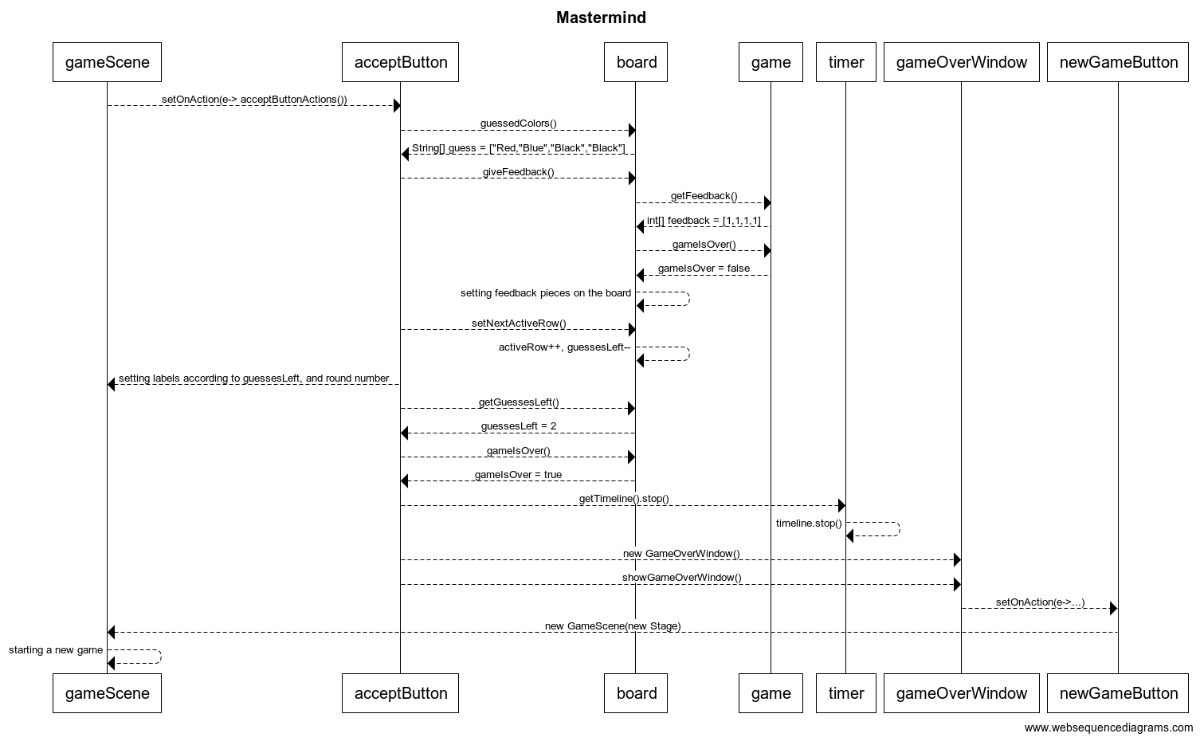
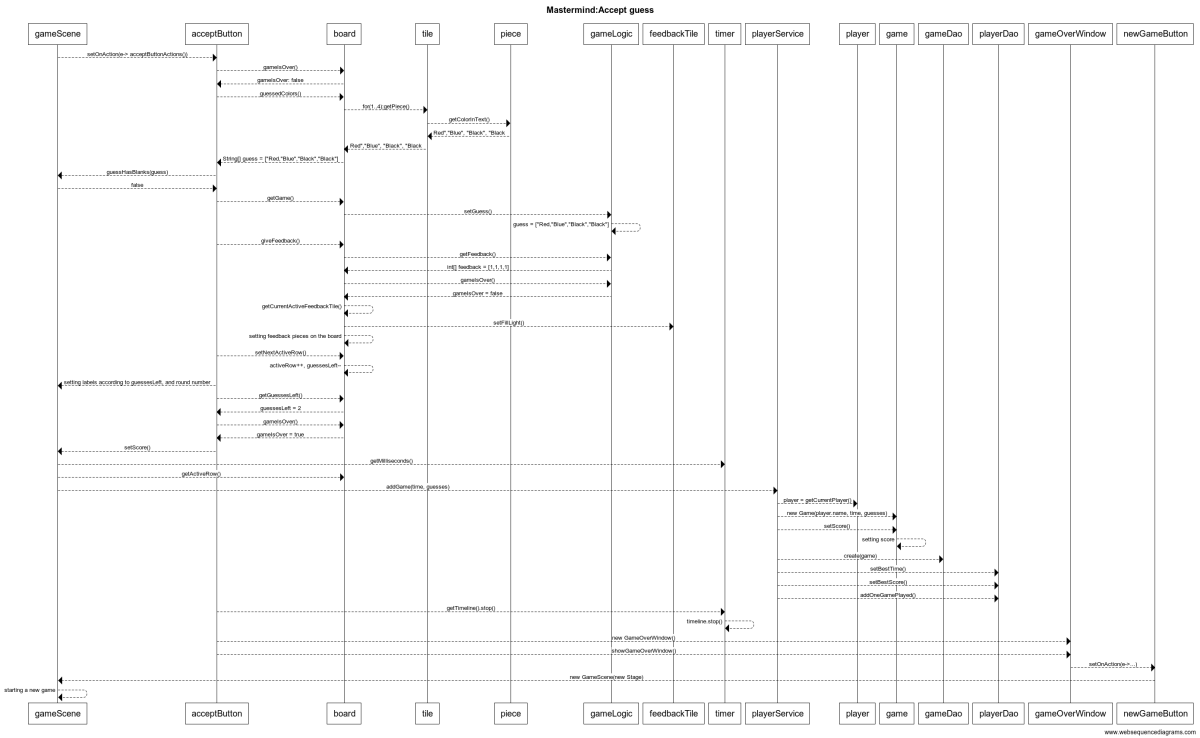
documents

diff --git a/Documents/Architecture.md b/Documents/Architecture.md
@@ -1,0 +1,68 @@
+# Project architecture
+
+## Structure
+The program is build in four layers and packages implement those layers:
+
+mastermind.gui -> mastermind.gamelogic -> mastermind.domain -> mastermind.dao
+
+The gui package includes the graphic user interface which is programmed using JavaFx. Mastermind.gamelogic acts as a bridge between the user interface and the program logic (domain and dao). Domain-package has all the basic program logic and dao-package is responsible for saving data to databases and to local disk.
+
+## The User Interface
+### Views
+* New Game Window
+	* Creating a new player / log in
+* Game Scene
+	* Main game window
+* Score Board
+	* Shows the game statistics and scores
+* Options
+	* The player can choose how many guesses are allowed
+* Game Over Window
+	* Shows the final time
+	* New Game, Close and Quit buttons
+* Help
+	* Game Instructions
+
+The score board, options and game instructions are scenes that can be added to the primary stage. The new game and game over windows have their own stage. 
+
+The user interface is interacting with the GameLogic-class which is then sending tasks to other classes in the domain package. Besides that the gui is also interacting with UserService class for database functions and options class for setting new options. 
+
+### The Program Logic
+
+![class diagram](https://github.com/TuuliTG/Ohte/blob/main/Documents/MastermindLuokkakaavio.jpg)
+
+### Saving data to database and local disk
+
+### Files
+The program saves player and game data to separate files on the local disk. The file names are spesified in a config.properties file which is located in Mastermind/src/main/resources. Currently the file names are set to players.txt and games.txt.
+
+Player data is saved in this format:
+`name;best time;best score;amount of games won;`
+
+Game data is saved in this format:
+`player name;score;time;number of guesses`
+
+## The main functions in the program
+
+### Creating a new player / log in
+
+![Creating a new player](https://github.com/TuuliTG/Ohte/blob/main/Documents/misc/newGameWindow.png)
+![Error](https://github.com/TuuliTG/Ohte/blob/main/Documents/misc/newGameError.png)
+
+### Playing
+
+![Game Window](https://github.com/TuuliTG/Ohte/blob/main/Documents/misc/gameWindow.png)
+![Arvauksen hyväksyminen](https://github.com/TuuliTG/Ohte/blob/main/Documents/MastermindSekvenssikaavio.png)
+
+The player can click on the code tiles to change to color (left or right click depending on the direction the player wants).
+When the player is satisfied with the guess, he/she can press the accept button to get feedback. If there were blanks left in the guess, and error message will show up and no feedback will be given. 
+
+### Game Over
+
+The game ends either when the player runs out of guesses or if he/she solves the code. 
+![Game Over Window](https://github.com/TuuliTG/Ohte/blob/main/Documents/misc/gameOverWindow.png)
+
+## Weaknesses in the program 
+
+**Options** 
+It would be nice that the player could have more options to customize the game. For example allowing blanks or setting a time limit for each guess. 

diff --git a/Documents/Testing.md b/Documents/Testing.md
@@ -1,0 +1,11 @@
+# Testing
+
+Project has unit and integration tests. The graphic user interface was not included in the tests. Test cover the dao (database-related classes) and domain packages.
+
+## Unit and integration testing
+### Domain
+**PlayerServiceTest** provides integration tests for the PlayerService class and other domain classes. FakeGameDao and FakePlayerDao classes implement the DAO interfaces and provide the tools for saving data during tests. 
+
+**CodeTest** tests if the color code is set up properly and doesn't have greys or other wrong colors. 
+
+**Option

diff --git a/Documents/workhours.md b/Documents/workhours.md
@@ -55,4 +55,6 @@ su 6.12.
 5 tuntia: Käyttäjän luominen ja kirjaaminen. Jar-tiedoton generointi niin että mukaan tulee configuraatiotiedostot ja kuvat ym.. Testejä
 ma: 4 tuntia: Javadoc, Uusia testejä, dokumentointi
 
-
+### Viikko 7
+su 13.12.
+4 tuntia: koodikatselmuksesta saadun palautteen perusteella pieniä korjailuja. Dokumentointia.
